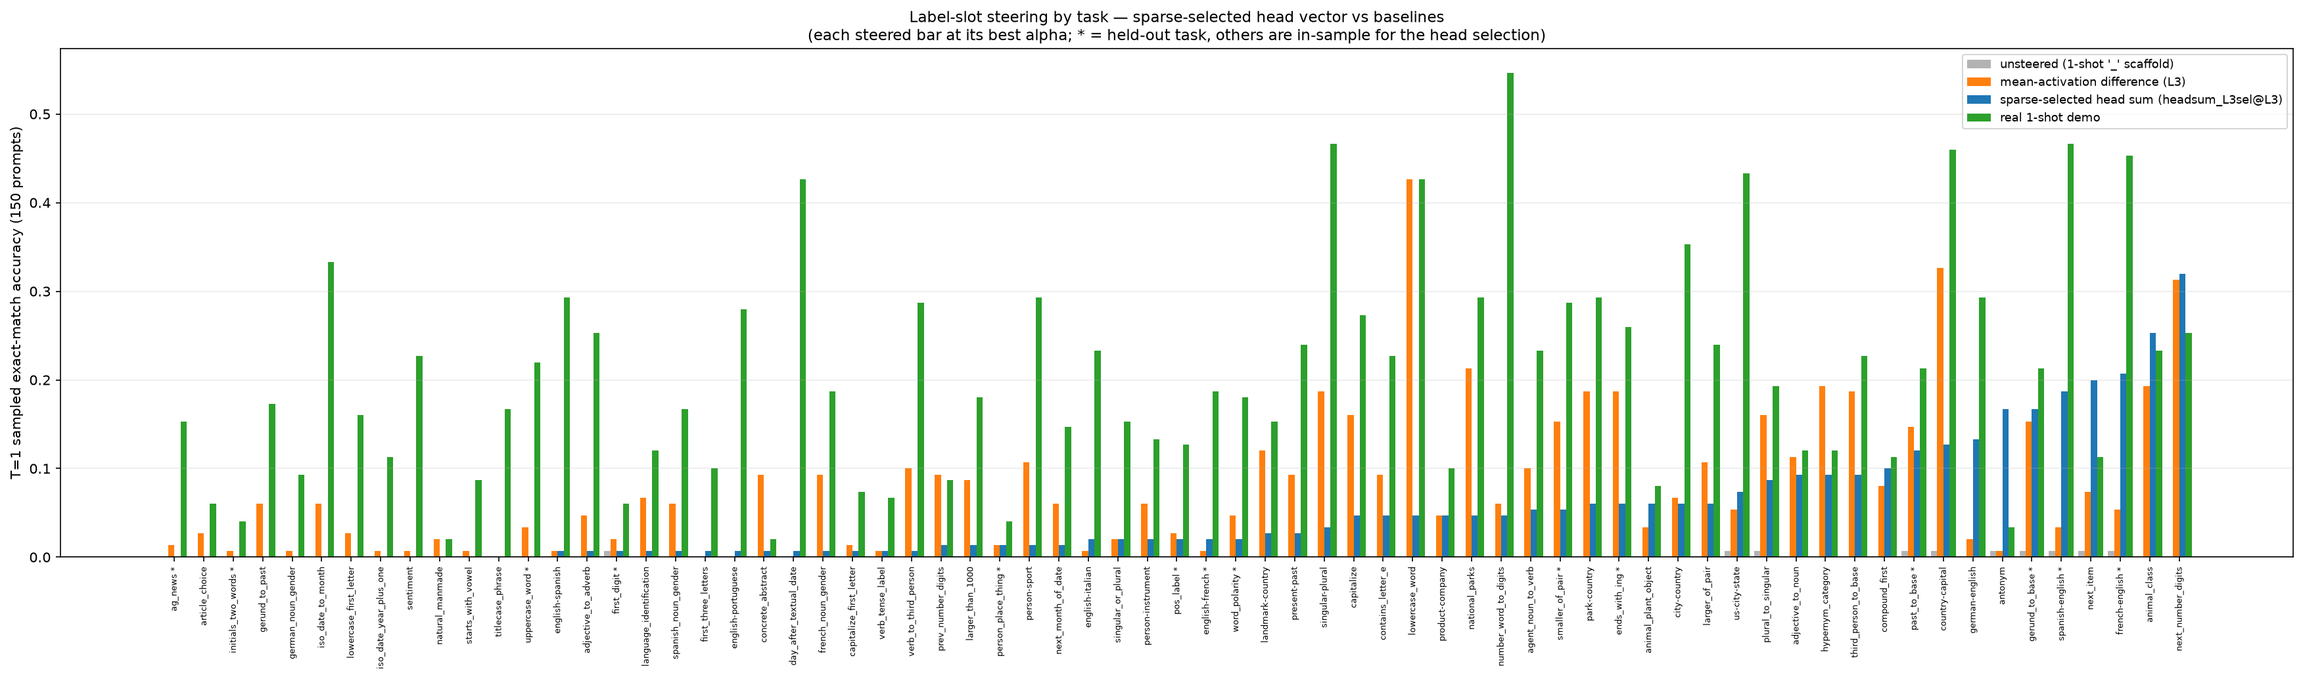
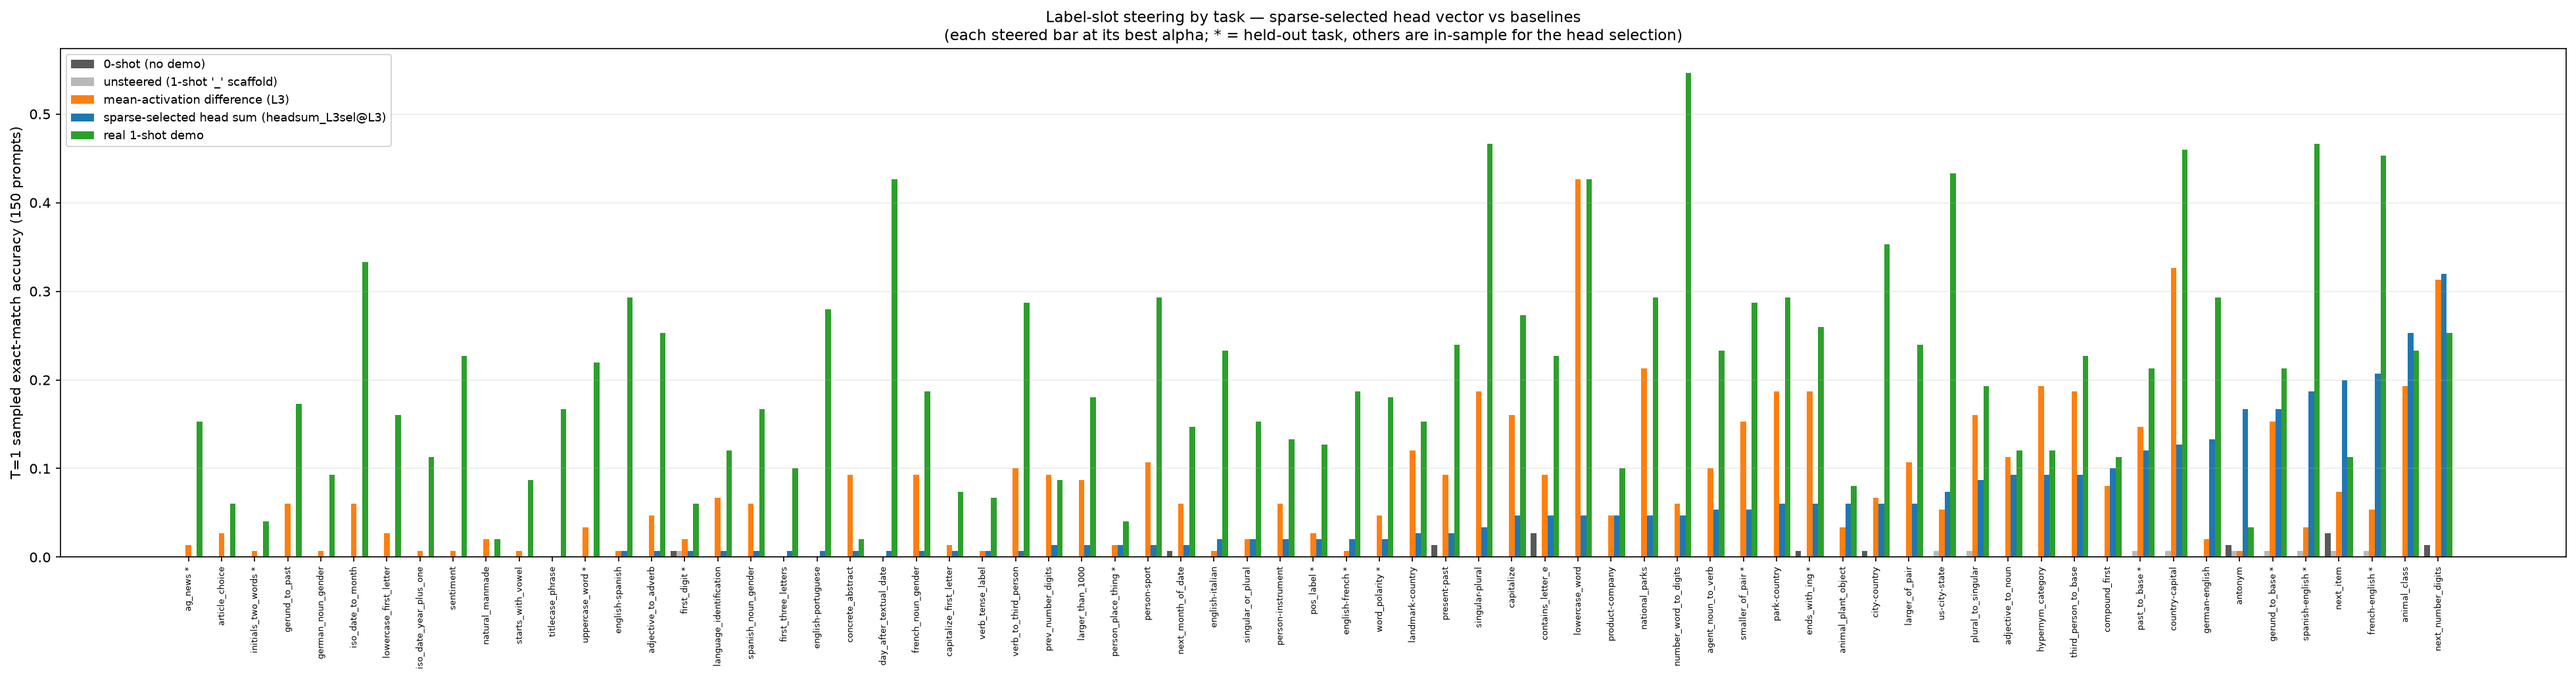
Add 0-shot baseline bar to the label-slot by-task chart

diff --git a/src/eval_scripts/plot_read_vector_head_selection.py b/src/eval_scripts/plot_read_vector_head_selection.py
@@ -113,14 +113,15 @@ def main():
     order = np.argsort(fam[head_key])
     labels = [tasks[i] + (" *" if grp[i] == "heldout" else "") for i in order]
     x = np.arange(len(tasks))
-    w = 0.21
-    fig, ax = plt.subplots(figsize=(max(14, 0.34 * len(tasks)), 7.0), dpi=150)
-    ax.bar(x - 1.5 * w, base[order], w, color="0.7", label="unsteered (1-shot '_' scaffold)")
-    ax.bar(x - 0.5 * w, fam[md_key][order], w, color="tab:orange",
+    w = 0.17
+    fig, ax = plt.subplots(figsize=(max(14, 0.38 * len(tasks)), 7.0), dpi=150)
+    ax.bar(x - 2 * w, zs[order], w, color="0.35", label="0-shot (no demo)")
+    ax.bar(x - w, base[order], w, color="0.72", label="unsteered (1-shot '_' scaffold)")
+    ax.bar(x, fam[md_key][order], w, color="tab:orange",
            label=f"mean-activation difference ({md_key.split('@')[1]})")
-    ax.bar(x + 0.5 * w, fam[head_key][order], w, color="tab:blue",
+    ax.bar(x + w, fam[head_key][order], w, color="tab:blue",
            label=f"sparse-selected head sum ({head_key})")
-    ax.bar(x + 1.5 * w, r1[order], w, color="tab:green", label="real 1-shot demo")
+    ax.bar(x + 2 * w, r1[order], w, color="tab:green", label="real 1-shot demo")
     ax.set_xticks(x, labels, rotation=90, fontsize=6.4)
     ax.set_ylabel("T=1 sampled exact-match accuracy (150 prompts)")
     ax.set_title("Label-slot steering by task — sparse-selected head vector vs baselines\n"

diff --git a/WORKLOG.md b/WORKLOG.md
@@ -5937,3 +5937,12 @@ cell by 0.0006 (0.0508 vs 0.0502) — a mismatched control masquerading as the m
 L7sel@L7 0.0501. All four sel x inject cells remain in summary.csv / layer_alpha.png.
 Conclusion is unchanged: the head-sum family sits at 0.040-0.051 however it is configured,
 below meandiff (0.082) and rawmean (0.121).
+
+### Addendum 2 — 0-shot bar added to by_task.png
+
+The 0-shot numbers (already captured for all 69 tasks in
+artifacts/69_task_run/read_dir_steering_1shot/<task>__zero_shot.json, and already present in
+summary.csv/per_task_acc.csv) are now drawn as a fifth bar; no recompute. Aggregate means:
+0-shot 0.0017 | unsteered '_' scaffold 0.0010 | mean-activation difference (L3) 0.0818 |
+sparse-selected head sum (L3sel@L3) 0.0502 | real 1-shot demo 0.2080. (raw mean @L7, not
+plotted, remains the strongest steering family at 0.1212.)
